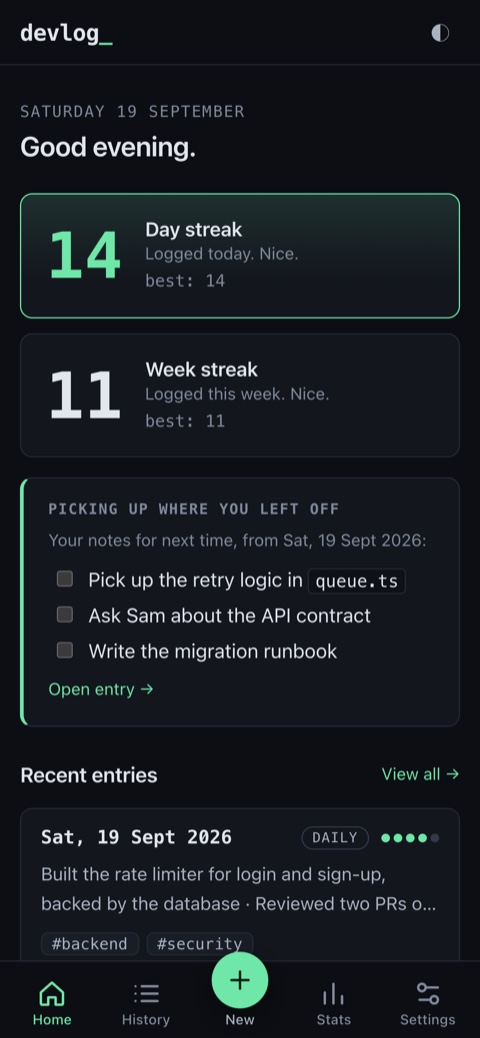
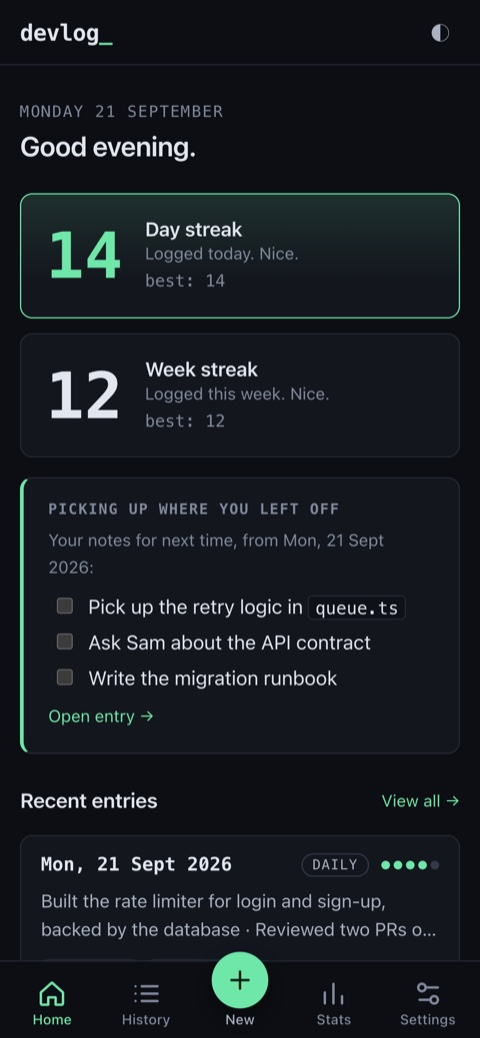
Landing page: new footer, and screenshots that follow the theme
- Replaces the two-line footer with a proper one: brand and blurb, Product
  (scrolls to the prompts, features and screenshots without touching the URL
  hash, which is the router), Get started, and Project (source, issues,
  licence, opening in a new tab with noopener), plus a bottom bar with the
  copyright year, what it's built with, and back to top. Stacks to two
  columns on phones. The "whoever runs it can technically read them" line is
  gone from the footer (it stays on the sign-up form)
- Each screenshot now has a dark and a light version, and CSS shows the one
  for the current theme, since the theme is a data-theme attribute and
  <picture> can't read it. Only the current theme's images are downloaded
  (a hidden lazy image is never fetched), and the hero for the theme you're
  already in is the only eager one
- All eight screenshots were recaptured together from one fresh sample
  dataset, so the two themes match except for colour

diff --git a/public/js/views/landing.js b/public/js/views/landing.js
@@ -13,8 +13,28 @@ const FEATURES = [
   ['See the pattern', 'Entries per week, mood over time and your most-used tags.'],
 ];
 
-const img = (name, w, hgt, alt, { hero = false } = {}) =>
-  h('img', { src: `/img/${name}.jpg`, width: w, height: hgt, alt, decoding: 'async', loading: hero ? 'eager' : 'lazy', fetchpriority: hero ? 'high' : null });
+/**
+ * Each screenshot exists in a dark and a light version and CSS shows the one for the current theme
+ * (the theme is a data-theme attribute the user can toggle, so <picture> can't pick it). Everything is
+ * lazy except the hero image for the theme you're already in; a hidden lazy image is never fetched.
+ */
+const shot = (name, w, hgt, alt, { hero = false } = {}) => {
+  const light = document.documentElement.dataset.theme === 'light';
+  const make = (suffix, cls, current) =>
+    h('img', { class: cls, src: `/img/${name}${suffix}.jpg`, width: w, height: hgt, alt, decoding: 'async', loading: hero && current ? 'eager' : 'lazy', fetchpriority: hero && current ? 'high' : null });
+  return [make('', 'lp-dark', !light), make('-light', 'lp-light', light)];
+};
+
+/** In-page links: the app routes on the URL hash, so these scroll instead of changing it. */
+const scrollTo = (id) => (e) => {
+  e.preventDefault();
+  const target = document.getElementById(id);
+  if (!target) return;
+  const still = window.matchMedia('(prefers-reduced-motion: reduce)').matches;
+  target.scrollIntoView({ behavior: still ? 'auto' : 'smooth', block: 'start' });
+  target.setAttribute('tabindex', '-1');
+  target.focus({ preventScroll: true });
+};
 
 /** The page signed-out visitors see at "/": what DevLog is, and a way in. */
 export function landingView({ allowSignup, themeButton }) {
@@ -48,7 +68,7 @@ export function landingView({ allowSignup, themeButton }) {
     h('p', { class: 'lp-lead' }, 'Five short prompts, daily or weekly. Capture what you worked on, learned and shipped without ever wondering what to write.'),
     h('div', { class: 'lp-cta' }, primary(), allowSignup && h('a', { class: 'btn btn-lg', href: '#/login' }, 'Sign in')),
     h('p', { class: 'lp-note mono' }, 'Free and open source · Dark by default · Works on your phone'),
-    h('figure', { class: 'lp-shot lp-hero-shot' }, img('new-entry', 1400, 1094, 'The DevLog new-entry form: numbered prompts with coaching hints and example placeholders', { hero: true })),
+    h('figure', { class: 'lp-shot lp-hero-shot' }, shot('new-entry', 1400, 1094, 'The DevLog new-entry form: numbered prompts with coaching hints and example placeholders', { hero: true })),
   );
 
   const prompts = h(
@@ -83,8 +103,8 @@ export function landingView({ allowSignup, themeButton }) {
     h(
       'div',
       { class: 'lp-gallery' },
-      h('figure', { class: 'lp-shot' }, img('dashboard', 1100, 845, 'The DevLog dashboard: day and week streaks, notes carried over from the last entry, and recent entries'), h('figcaption', { class: 'muted small' }, 'Dashboard')),
-      h('figure', { class: 'lp-shot' }, img('stats', 1100, 946, 'The stats page: entries per week, mood over time and most-used tags'), h('figcaption', { class: 'muted small' }, 'Stats')),
+      h('figure', { class: 'lp-shot' }, shot('dashboard', 1100, 845, 'The DevLog dashboard: day and week streaks, notes carried over from the last entry, and recent entries'), h('figcaption', { class: 'muted small' }, 'Dashboard')),
+      h('figure', { class: 'lp-shot' }, shot('stats', 1100, 946, 'The stats page: entries per week, mood over time and most-used tags'), h('figcaption', { class: 'muted small' }, 'Stats')),
     ),
   );
 
@@ -97,7 +117,7 @@ export function landingView({ allowSignup, themeButton }) {
       h('h2', { id: 'lp-phone-h' }, 'A quick check-in, on any screen'),
       h('p', { class: 'lp-section-lead' }, 'On a phone the navigation moves to a tab bar within thumb reach, with a New button in the middle. Dark by default, and a light theme when you want it.'),
     ),
-    h('figure', { class: 'lp-shot lp-phone' }, img('mobile', 480, 1038, 'DevLog on a phone, with a bottom tab bar and a raised New button')),
+    h('figure', { class: 'lp-shot lp-phone' }, shot('mobile', 480, 1038, 'DevLog on a phone, with a bottom tab bar and a raised New button')),
   );
 
   const final = h(
@@ -112,14 +132,45 @@ export function landingView({ allowSignup, themeButton }) {
     ),
   );
 
+  const link = ([label, href, opts = {}]) =>
+    h('li', null, h('a', { href, onclick: opts.onclick, target: opts.external ? '_blank' : null, rel: opts.external ? 'noopener noreferrer' : null }, label));
+  const column = (title, items) =>
+    h('nav', { class: 'lp-footer-col', 'aria-label': title }, h('h2', { class: 'lp-footer-h mono' }, title), h('ul', null, items.filter(Boolean).map(link)));
+
   const footer = h(
     'footer',
     { class: 'lp-footer' },
     h(
       'div',
-      { class: 'lp-inner lp-footer-inner' },
-      h('p', null, 'Open source under the MIT licence · ', h('a', { href: REPO, rel: 'noopener noreferrer' }, 'View the code on GitHub')),
-      h('p', { class: 'small' }, 'Entries are stored on the server, and whoever runs it can technically read them.'),
+      { class: 'lp-inner' },
+      h(
+        'div',
+        { class: 'lp-footer-top' },
+        h(
+          'div',
+          { class: 'lp-footer-brand' },
+          h('a', { class: 'brand', href: '#/' }, 'devlog', h('span', { class: 'cursor', 'aria-hidden': 'true' }, '_')),
+          h('p', { class: 'muted' }, 'A guided work journal for developers. Five short prompts, daily or weekly, and no blank page.'),
+        ),
+        column('Product', [
+          ['The five prompts', '#/', { onclick: scrollTo('lp-prompts-h') }],
+          ['Features', '#/', { onclick: scrollTo('lp-features-h') }],
+          ['Screenshots', '#/', { onclick: scrollTo('lp-gallery-h') }],
+        ]),
+        column('Get started', [['Sign in', '#/login'], allowSignup && ['Create account', '#/register']]),
+        column('Project', [
+          ['Source on GitHub', REPO, { external: true }],
+          ['Report an issue', `${REPO}/issues`, { external: true }],
+          ['MIT licence', `${REPO}/blob/main/LICENSE`, { external: true }],
+        ]),
+      ),
+      h(
+        'div',
+        { class: 'lp-footer-bottom' },
+        h('p', null, `© ${new Date().getFullYear()} DevLog. Open source under the MIT licence.`),
+        h('p', { class: 'mono' }, 'Built with Node, Express and libSQL'),
+        h('a', { href: '#/', onclick: (e) => { e.preventDefault(); window.scrollTo({ top: 0, behavior: window.matchMedia('(prefers-reduced-motion: reduce)').matches ? 'auto' : 'smooth' }); } }, 'Back to top ↑'),
+      ),
     ),
   );
 

diff --git a/public/css/app.css b/public/css/app.css
@@ -938,16 +938,81 @@ button.tag {
 .lp-final .muted {
   margin-top: 8px;
 }
+/* one screenshot per theme; the theme is a data-theme attribute, so this is CSS, not <picture> */
+.lp .lp-light {
+  display: none;
+}
+:root[data-theme='light'] .lp .lp-light {
+  display: block;
+}
+:root[data-theme='light'] .lp .lp-dark {
+  display: none;
+}
 .lp-footer {
   margin-top: 72px;
   border-top: 1px solid var(--border);
-  padding: 28px 0 44px;
-  color: var(--muted);
-  font-size: 0.9rem;
+  background: var(--surface);
+  font-size: 0.92rem;
 }
-.lp-footer-inner {
+.lp-footer-top {
   display: grid;
-  gap: 6px;
+  grid-template-columns: 1.7fr 1fr 1fr 1fr;
+  gap: 36px;
+  padding: 44px 0 36px;
+}
+.lp-footer-brand {
+  display: grid;
+  gap: 10px;
+  align-content: start;
+  max-width: 22rem;
+}
+.lp-footer-brand .brand {
+  font-size: 1.2rem;
+}
+.lp-footer-h {
+  margin: 0 0 12px;
+  font-size: 0.72rem;
+  font-weight: 600;
+  letter-spacing: 0.08em;
+  text-transform: uppercase;
+  color: var(--muted);
+}
+.lp-footer-col ul {
+  list-style: none;
+  margin: 0;
+  padding: 0;
+  display: grid;
+  gap: 8px;
+}
+.lp-footer-col a {
+  color: var(--text-2);
+}
+.lp-footer-col a:hover {
+  color: var(--accent);
+}
+.lp-footer-bottom {
+  display: flex;
+  flex-wrap: wrap;
+  align-items: center;
+  justify-content: space-between;
+  gap: 8px 24px;
+  padding: 18px 0 32px;
+  border-top: 1px solid var(--border);
+  color: var(--muted);
+  font-size: 0.85rem;
+}
+.lp-footer-bottom .mono {
+  font-size: 0.8rem;
+}
+@media (max-width: 720px) {
+  .lp-footer-top {
+    grid-template-columns: 1fr 1fr;
+    gap: 28px 20px;
+    padding-top: 36px;
+  }
+  .lp-footer-brand {
+    grid-column: 1 / -1;
+  }
 }
 @media (max-width: 820px) {
   .lp-grid {

diff --git a/README.md b/README.md
@@ -116,7 +116,7 @@ Without a domain of your own, Brevo can't authenticate a free-mail sender such a
 ```
 index.js  Entry point: the Express app (Vercel runs it; server/index.js listens on it)
 server/   API, auth, entries, stats, database access (libSQL client)
-public/   Static frontend: vanilla ES modules, no build step (public/img holds the landing page's screenshots)
+public/   Static frontend: vanilla ES modules, no build step (public/img holds the landing page's dark and light screenshots)
 scripts/  copy-vendor.js copies the browser libraries into public/vendor on install
 test/     node:test unit + API tests
 ```
